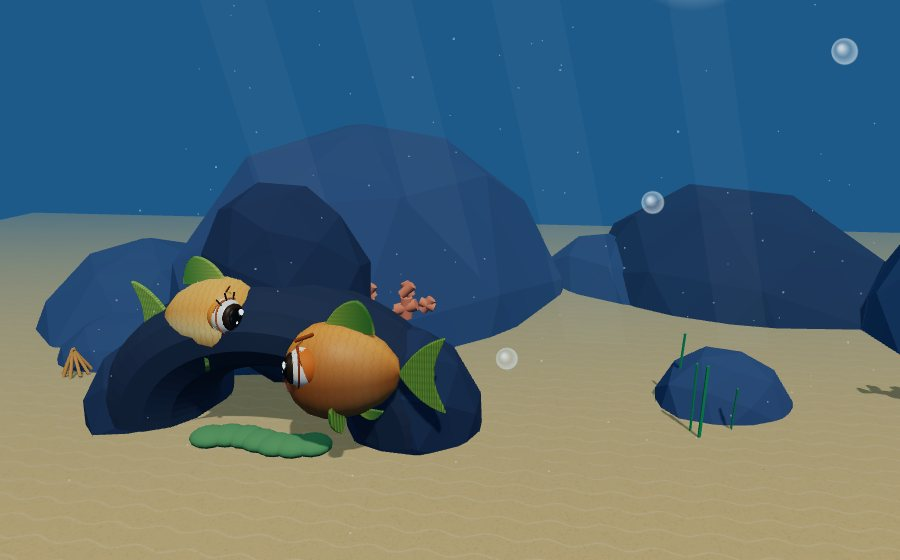
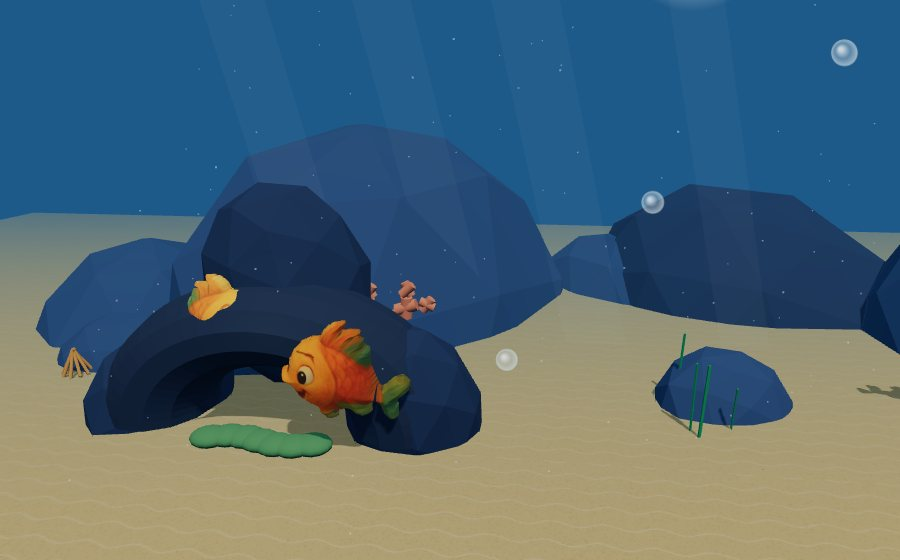
Fidibus 3D: Fidibus, Mama und Papa aus den Original-Buchbildern
Die Buch-Illustrationen (fid_*.png, Mama/Papa wie in Version 1 daraus
abgeleitet) werden zu 3D-Körpern aufgeblasen: Silhouette aus dem Alpha-
Kanal, Dicke nach Abstand zum Rand (Kugelprofil), Bild als Textur auf
beiden Seiten. Schwanz an der schmalsten Stelle als eigenes Gelenk,
Stimmungsposen (froh, redend, traurig, ängstlich, schlafend, frontal),
Blinzeln/Schlafen wie in Version 1 ins Bild gemalt. Rand-Pixel geglättet
und nach außen gehärtet, damit die Netzkante in opaker Textur liegt.
Umarmungspose neu ausgerichtet, Kartenbilder neu gerendert.

Claude-Session: https://claude.ai/code/session_01UJUZeWQvUyQxZdWTLgeUri

Changed region(s): [[0.3111, 0.5161, 0.4978, 0.8196], [0.1244, 0.4554, 0.28, 0.6375], [0.9333, 0.0607, 0.9644, 0.0911]]

diff --git a/fidibus3d/figures3d.js b/fidibus3d/figures3d.js
@@ -120,7 +120,7 @@ function eye(p, r, x, y, z, opts = {}) {
   return g;
 }
 const LID_CLOSED = Math.PI / 2 * 0.92;
-export function setLids(root, closed) { root.traverse(o => { if (o.userData && o.userData.lid) o.userData.lid.rotation.x = closed ? LID_CLOSED : o.userData.lidRest; }); }
+export function setLids(root, closed) { if (root.userData.bookLids) root.userData.bookLids(closed); root.traverse(o => { if (o.userData && o.userData.lid) o.userData.lid.rotation.x = closed ? LID_CLOSED : o.userData.lidRest; }); }
 export function blinkLids(root, k) { root.traverse(o => { if (o.userData && o.userData.lid) o.userData.lid.rotation.x = o.userData.lidRest * (1 - k) + LID_CLOSED * k; }); }
 function blushPair(g, x, y, z, r) { for (const sz of [-1, 1]) sph(g, r, 0xff8a7a, x, y, sz * z, 1, 0.7, 0.4, { alpha: 0.35 }); }
 function smileMesh(p, r, t, col, x, y, z, rot) { const m = new THREE.Mesh(new THREE.TorusGeometry(r, t, 8, 28, Math.PI), M(col, { rough: 0.6 })); m.position.set(x, y, z); m.rotation.set(...rot); p.add(m); return m; }
@@ -291,4 +291,144 @@ export function animTurtle(g, t, o) {
   const m = p.mouth.userData.m; const hs = o.talking ? 0.8 + 0.7 * Math.sin(t * 8) : 0.6;
   m.cav.scale.set(m.dep, m.hgt * hs, m.w); m.edge.scale.set(m.w * 1.05, m.hgt * hs * 1.1, 1); m.tongue.position.y = -m.hgt * hs * 0.45; m.lip.position.y = -m.hgt * hs * 0.95;
   if (hug > 0.5) setLids(g, true); else blinkLids(g, o.blink || 0);
+}
+
+// ───────────── Buch-Fische: Fidibus, Mama und Papa aus den Original-Illustrationen ─────────────
+// Die Buchbilder werden zu 3D-Körpern „aufgeblasen“: Die Silhouette bestimmt die Form, die Dicke folgt dem
+// Abstand zum Rand (Kugelprofil), die Illustration liegt als Textur auf beiden Seiten. Schwanz mit Gelenk,
+// Lider zum Blinzeln/Schlafen werden wie in Version 1 ins Bild gemalt.
+export const BOOK_EYES = {
+  fid_happy: [{ cx: 90, cy: 119, rx: 32, ry: 31, col: '#f08701' }], fid_talk: [{ cx: 186, cy: 68, rx: 16, ry: 17, col: '#de6f01' }],
+  fid_sad: [{ cx: 232, cy: 88, rx: 20, ry: 17, col: '#ed6904' }], fid_worried: [{ cx: 256, cy: 125, rx: 23, ry: 30, col: '#e77902' }, { cx: 324, cy: 133, rx: 20, ry: 24, col: '#c46104' }],
+  fid_front: [{ cx: 87, cy: 81, rx: 15, ry: 14, col: '#e57100' }, { cx: 44, cy: 82, rx: 14, ry: 15, col: '#e87300' }]
+};
+export const BOOK_SPR = { fid_happy: { face: -1, w: 150 }, fid_talk: { face: 1, w: 128 }, fid_sad: { face: 1, w: 142 }, fid_worried: { face: 1, w: 152 }, fid_sleep: { face: 1, w: 150 }, fid_front: { face: 1, w: 92 }, mama: { face: -1, w: 215 }, papa: { face: -1, w: 228 } };
+const BOOK_K = 0.0135;   // Sprite-Breite aus Version 1 (px) → Welteinheiten
+
+// Farben in transparente Pixel bluten lassen (gegen dunkle Säume beim Filtern)
+function bleed(img, passes, harden = 0) {
+  const w = img.width, h = img.height, d = img.data; let filled = new Uint8Array(w * h);
+  // nur satt opake Pixel behalten ihre Farbe; halbtransparente Randpixel tragen oft noch die Hintergrundfarbe des Buches
+  for (let i = 0; i < w * h; i++) { filled[i] = d[i * 4 + 3] > 190 ? 1 : 0; d[i * 4 + 3] = filled[i] ? 255 : 0; }
+  const orig = filled.slice();
+  for (let p = 0; p < passes; p++) {
+    const next = filled.slice();
+    for (let y = 0; y < h; y++) for (let x = 0; x < w; x++) {
+      const i = y * w + x; if (filled[i]) continue; let r = 0, g = 0, b = 0, n = 0;
+      for (let dy = -1; dy <= 1; dy++) for (let dx = -1; dx <= 1; dx++) { const xx = x + dx, yy = y + dy; if ((!dx && !dy) || xx < 0 || yy < 0 || xx >= w || yy >= h) continue; const j = yy * w + xx; if (filled[j]) { r += d[j * 4]; g += d[j * 4 + 1]; b += d[j * 4 + 2]; n++; } }
+      if (n) { d[i * 4] = r / n; d[i * 4 + 1] = g / n; d[i * 4 + 2] = b / n; d[i * 4 + 3] = p < harden ? 255 : 0; next[i] = 1; }
+    }
+    filled = next;
+  }
+  // geblutete Zone weichzeichnen (gegen Streifen an der Kante)
+  for (let p = 0; p < 3; p++) {
+    const src = new Uint8ClampedArray(d);
+    for (let y = 0; y < h; y++) for (let x = 0; x < w; x++) {
+      const i = y * w + x; if (orig[i] || !filled[i]) continue; let r = 0, g = 0, b = 0, n = 0;
+      for (let dy = -1; dy <= 1; dy++) for (let dx = -1; dx <= 1; dx++) { const xx = x + dx, yy = y + dy; if (xx < 0 || yy < 0 || xx >= w || yy >= h) continue; const j = yy * w + xx; if (filled[j]) { r += src[j * 4]; g += src[j * 4 + 1]; b += src[j * 4 + 2]; n++; } }
+      if (n) { d[i * 4] = r / n; d[i * 4 + 1] = g / n; d[i * 4 + 2] = b / n; }
+    }
+  }
+}
+function inflate(src, worldW, opts = {}) {
+  const iw = src.width, ih = src.height, step = Math.max(1, Math.round(Math.max(iw, ih) / 84));
+  const cols = Math.ceil(iw / step) + 3, rows = Math.ceil(ih / step) + 3;
+  // Quellbild mit geblutetem Rand
+  const base = document.createElement('canvas'); base.width = iw; base.height = ih; const bg = base.getContext('2d'); bg.drawImage(src, 0, 0);
+  // Alpha um gut eine Rasterweite nach außen härten: Die Netzkante liegt dann in opaker Textur (kein transparentes Band an der Kante)
+  const idata = bg.getImageData(0, 0, iw, ih); const A0 = new Uint8ClampedArray(idata.data); bleed(idata, step + 6, step + 2); bg.putImageData(idata, 0, 0);
+  const A = idata.data;
+  const alphaAt = (x, y) => { x = Math.round(x); y = Math.round(y); return (x < 0 || y < 0 || x >= iw || y >= ih) ? 0 : A[(y * iw + x) * 4 + 3]; };
+  const pad = step * 2 + 4, cw = iw + 2 * pad, ch = ih + 2 * pad;
+  const c = document.createElement('canvas'); c.width = cw; c.height = ch; const g = c.getContext('2d'); g.drawImage(base, pad, pad);
+  const PX = q => (q - 1) * step, PY = r => (r - 1) * step;
+  // innen = Original-Pixel in unmittelbarer Nähe des Knotens ist opak (Textur ist um step+2 px gehärtet, Randknoten liegen also in opaker Textur)
+  const ins = new Uint8Array(cols * rows);
+  for (let r = 0; r < rows; r++) for (let q = 0; q < cols; q++) { let on = 0; for (let dy = -1; dy <= 1 && !on; dy++) for (let dx = -1; dx <= 1; dx++) if (A0[(Math.min(ih - 1, Math.max(0, PY(r) + dy)) * iw + Math.min(iw - 1, Math.max(0, PX(q) + dx))) * 4 + 3] > 128) { on = 1; break; } ins[r * cols + q] = on; }
+  const used = new Uint8Array(cols * rows), nx = new Float32Array(cols * rows), ny = new Float32Array(cols * rows);
+  for (let r = 0; r < rows; r++) for (let q = 0; q < cols; q++) { const i = r * cols + q; nx[i] = PX(q); ny[i] = PY(r); let u = ins[i]; for (let dr = -1; dr <= 1 && !u; dr++) for (let dq = -1; dq <= 1; dq++) { const rr = r + dr, qq = q + dq; if (rr >= 0 && qq >= 0 && rr < rows && qq < cols && ins[rr * cols + qq]) { u = 1; break; } } used[i] = u; }
+  // Abstand zum Rand (Chamfer, zwei Durchläufe)
+  const D = new Float32Array(cols * rows); const INF = 1e6;
+  for (let i = 0; i < D.length; i++) D[i] = ins[i] ? INF : 0;
+  const at = (r, q) => (r < 0 || q < 0 || r >= rows || q >= cols) ? 0 : D[r * cols + q];
+  for (let r = 0; r < rows; r++) for (let q = 0; q < cols; q++) { const i = r * cols + q; if (!ins[i]) continue; D[i] = Math.min(D[i], at(r - 1, q) + 1, at(r, q - 1) + 1, at(r - 1, q - 1) + 1.414, at(r - 1, q + 1) + 1.414); }
+  for (let r = rows - 1; r >= 0; r--) for (let q = cols - 1; q >= 0; q--) { const i = r * cols + q; if (!ins[i]) continue; D[i] = Math.min(D[i], at(r + 1, q) + 1, at(r, q + 1) + 1, at(r + 1, q + 1) + 1.414, at(r + 1, q - 1) + 1.414); }
+  let dmax = 0; for (let i = 0; i < D.length; i++) if (D[i] < INF) dmax = Math.max(dmax, D[i]);
+  const cap = dmax * (opts.cap ?? 0.92), k = worldW / iw, Tz = cap * step * k * (opts.fat ?? 0.85);
+  // Kugelprofil, aber der erste Knoten innen springt nur halb so hoch: dünne Flossen bleiben flach, die Kante wird weicher
+  const zOf = d => { const n = Math.max(0, Math.min(d, cap) - 0.6) / cap; return Tz * Math.sqrt(Math.max(0, 1 - (1 - n) * (1 - n))); };
+  // Schwanzansatz: schmalste Stelle zwischen dem breitesten Körperteil und der Schwanzflosse
+  let split = -1;
+  if (opts.face) {
+    const ext = []; let qMax = 0; for (let q = 0; q < cols; q++) { let n = 0; for (let r = 0; r < rows; r++) n += ins[r * cols + q]; ext.push(n); if (n > ext[qMax]) qMax = q; }
+    const dir = opts.face < 0 ? 1 : -1; let last = -1;
+    for (let q = qMax; q >= 0 && q < cols; q += dir) if (ext[q] >= ext[qMax] * 0.28) last = q;
+    let best = 1e9; for (let q = qMax + dir * 3; q !== last && q >= 0 && q < cols; q += dir) if (ext[q] < best) { best = ext[q]; split = q; }
+    if (split > 0 && best > ext[qMax] * 0.6) split = -1;
+  }
+  const tex = new THREE.CanvasTexture(c); tex.colorSpace = THREE.SRGBColorSpace; tex.anisotropy = 4;
+  const mat = new THREE.MeshStandardMaterial({ map: tex, alphaTest: 0.5, roughness: 0.9, metalness: 0, side: THREE.FrontSide, emissive: 0xffffff, emissiveMap: tex, emissiveIntensity: 0.32 });
+  const wx = i => (nx[i] - iw / 2) * k, wy = i => (ih / 2 - ny[i]) * k;
+  function build(qFrom, qTo, x0) {
+    const pos = [], uv = [], idx = []; const id = new Int32Array(cols * rows).fill(-1); let n = 0;
+    for (const side of [1, -1]) {
+      for (let r = 0; r < rows; r++) for (let q = qFrom; q <= qTo; q++) { const i = r * cols + q; if (!used[i]) continue; if (side > 0) id[i] = n; pos.push(wx(i) - x0, wy(i), side * zOf(D[i] < INF ? D[i] : 0)); uv.push((nx[i] + pad) / cw, 1 - (ny[i] + pad) / ch); n++; }
+      const off = side > 0 ? 0 : n / 2 | 0;
+      for (let r = 0; r < rows - 1; r++) for (let q = qFrom; q < qTo; q++) {
+        const a = id[r * cols + q], b = id[r * cols + q + 1], cc = id[(r + 1) * cols + q], d = id[(r + 1) * cols + q + 1]; if (a < 0 || b < 0 || cc < 0 || d < 0) continue;
+        const o = side > 0 ? 0 : off; if (side > 0) idx.push(a, cc, b, b, cc, d); else idx.push(a + o, b + o, cc + o, b + o, d + o, cc + o);
+      }
+    }
+    const geo = new THREE.BufferGeometry(); geo.setAttribute('position', new THREE.Float32BufferAttribute(pos, 3)); geo.setAttribute('uv', new THREE.Float32BufferAttribute(uv, 2)); geo.setIndex(idx); geo.computeVertexNormals();
+    const m = new THREE.Mesh(geo, mat); m.castShadow = true; m.receiveShadow = false; return m;
+  }
+  const group = new THREE.Group(); let tail = null;
+  if (split > 0) {
+    const xs = (PX(split) - iw / 2) * k;
+    const bodyRange = opts.face < 0 ? [0, split] : [split, cols - 1], tailRange = opts.face < 0 ? [split, cols - 1] : [0, split];
+    group.add(build(bodyRange[0], bodyRange[1], 0));
+    tail = new THREE.Group(); tail.position.x = xs; tail.add(build(tailRange[0], tailRange[1], xs)); group.add(tail);
+  } else group.add(build(0, cols - 1, 0));
+  // Lider ins Bild malen (wie Version 1)
+  let lidState = -1;
+  const redraw = on => {
+    if (on === lidState) return; lidState = on;
+    g.clearRect(0, 0, cw, ch); g.drawImage(base, pad, pad);
+    if (on && opts.eyes) for (const e of opts.eyes) {
+      const ex = e.cx + pad, ey = e.cy + pad;
+      g.fillStyle = e.col; g.beginPath(); g.ellipse(ex, ey, e.rx, e.ry, 0, 0, 7); g.fill();
+      g.strokeStyle = 'rgba(50,25,10,.5)'; g.lineWidth = Math.max(1.2, e.rx * 0.12); g.lineCap = 'round';
+      g.beginPath(); g.ellipse(ex, ey + e.ry * 0.1, e.rx * 0.8, e.ry * 0.45, 0, 0.2, Math.PI - 0.2); g.stroke();
+    }
+    tex.needsUpdate = true;
+  };
+  redraw(0);
+  return { group, tail, redraw };
+}
+
+// poses: { key: { src, face, w, eyes } } – alle Posen blicken nach der Drehung nach -X
+export function makeBookFish(kind, poses) {
+  const g = new THREE.Group(); const P = {};
+  for (const key in poses) {
+    const p = poses[key]; const inf = inflate(p.src, p.w * BOOK_K, { face: key === 'fid_front' ? 0 : p.face, eyes: p.eyes, fat: key === 'fid_front' ? 0.6 : 0.85 });
+    inf.group.rotation.y = p.face < 0 ? 0 : Math.PI; inf.group.visible = false; g.add(inf.group); P[key] = inf;
+  }
+  g.userData.book = { poses: P, kind, current: null };
+  g.userData.bookLids = closed => { const cur = g.userData.book.current; if (cur) P[cur].redraw(closed ? 1 : 0); };
+  return g;
+}
+export function animBookFish(g, t, o) {
+  const B = g.userData.book; let key = B.kind;
+  if (B.kind === 'fid') {
+    key = o.mood === 'sleep' ? 'fid_sleep' : o.mood === 'sad' ? 'fid_sad' : o.mood === 'worried' ? 'fid_worried' : o.mood === 'front' ? 'fid_front' : 'fid_happy';
+    if (o.talking && (o.mood === 'happy' || o.mood === 'front') && Math.floor(t * 7) % 2 === 0 && B.poses.fid_talk) key = 'fid_talk';
+  }
+  if (!B.poses[key]) key = Object.keys(B.poses)[0];
+  for (const k in B.poses) B.poses[k].group.visible = k === key;
+  B.current = key; const pose = B.poses[key];
+  pose.redraw(o.mood === 'sleep' || (o.blink || 0) > 0 ? 1 : 0);
+  const sp = o.speed || 0, wag = Math.sin(t * (6 + sp * 1.5)) * (o.moving ? 0.45 : 0.16);
+  if (pose.tail) pose.tail.rotation.y = wag * (pose.group.rotation.y ? -1 : 1);
+  pose.group.rotation.z = (o.talking ? Math.sin(t * 13) * 0.025 : 0);
+  pose.group.scale.set(1 + Math.sin(t * 1.8) * 0.015, 1 - Math.sin(t * 1.8) * 0.015, 1);
 }

diff --git a/fidibus3d/game.js b/fidibus3d/game.js
@@ -1,7 +1,7 @@
 // Fidibus und der Weg nach Hause – Version 2 in 3D (three.js).
 // Spiellogik, Geschichte und Steuerung wie in Version 1 (Welt in 2D-Einheiten), Darstellung in 3D.
 import * as THREE from './three.module.min.js';
-import { makeFish, animFish, makeWhale, animWhale, makeStar, makeJelly, animJelly, makeTurtle, animTurtle, setLids, M } from './figures3d.js';
+import { makeBookFish, animBookFish, BOOK_EYES, BOOK_SPR, makeWhale, animWhale, makeStar, makeJelly, animJelly, makeTurtle, animTurtle, setLids, M } from './figures3d.js';
 
 const WORLD_W = 11200, WORLD_H = 1400;
 const HOME = { x: 330, y: 1080 };
@@ -467,7 +467,12 @@ const pool = { b: [], h: [] };
 function spriteFrom(kind) { const arr = pool[kind]; const s = arr.find(x => !x.visible); if (s) return s; const n = new THREE.Sprite(kind === 'b' ? bubbleMat.clone() : heartMat.clone()); scene.add(n); arr.push(n); return n; }
 
 // ───────────── Figuren ─────────────
-const fidM = makeFish('fid'), mamaM = makeFish('mama'), papaM = makeFish('papa');
+// Buchbilder laden (aus Version 1) und Mama/Papa daraus ableiten
+const IMG = {};
+await Promise.all(['fid_happy', 'fid_talk', 'fid_sad', 'fid_worried', 'fid_sleep', 'fid_front'].map(k => new Promise(res => { const im = new Image(); im.onload = res; im.onerror = res; im.src = '../fidibus/img/' + k + '.png'; IMG[k] = im; })));
+const fidPoses = {}; for (const k in IMG) if (IMG[k].width) fidPoses[k] = { src: IMG[k], face: BOOK_SPR[k].face, w: BOOK_SPR[k].w, eyes: BOOK_EYES[k] };
+const parentPose = kind => { const p = window.FIG.parent(IMG.fid_happy, kind); return { [kind]: { src: p.c, face: p.face, w: BOOK_SPR[kind].w, eyes: p.eyes } }; };
+const fidM = makeBookFish('fid', fidPoses), mamaM = makeBookFish('mama', parentPose('mama')), papaM = makeBookFish('papa', parentPose('papa'));
 const whaleM = makeWhale(), starM = makeStar(), jellyM = makeJelly(), turtleM = makeTurtle();
 scene.add(fidM, mamaM, papaM, whaleM, starM, jellyM, turtleM);
 whaleM.position.set(X(2520) + 6.6, Y(720), 0.4);
@@ -482,10 +487,10 @@ function syncFish(m, f, kind, off) {
   m.visible = !f.hidden;
   m.position.set(X(f.x), Y(f.y) + Math.sin(f.fin * 0.9) * 0.03, kind === 'mama' ? -0.6 : kind === 'papa' ? 0.3 : 0);
   const front = f.mood === 'front';
-  const yaw = front ? Math.PI / 2 : (f.dir > 0 ? Math.PI : 0);
+  const yaw = front ? 0 : (f.dir > 0 ? Math.PI : 0);
   m.rotation.set(0, yaw, (f.dir > 0 ? 1 : -1) * -f.tilt * 0.8 * (front ? 0 : 1));
   const line = G.mode === 'dialog' ? G.dialogQueue[G.dialogIdx] : null; const typing = !!(line && G.typed < line.text.length);
-  animFish(m, G.t + off, { moving: Math.hypot(f.vx, f.vy) > 30, speed: Math.hypot(f.vx, f.vy) / 100, mood: f.mood, talking: f.talking && typing, blink: blink(kind === 'fid' ? 4.1 : 5.3, off) });
+  animBookFish(m, G.t + off, { moving: Math.hypot(f.vx, f.vy) > 30, speed: Math.hypot(f.vx, f.vy) / 100, mood: f.mood, talking: f.talking && typing, blink: blink(kind === 'fid' ? 4.1 : 5.3, off) });
 }
 function render3d(dt) {
   const t = G.t;
@@ -493,7 +498,7 @@ function render3d(dt) {
   syncFish(fidM, G.fid, 'fid', 0.4); syncFish(mamaM, G.mama, 'mama', 1.9); syncFish(papaM, G.papa, 'papa', 3.1);
   // Umarmung: Fidibus schmiegt sich an den Kopf der Schildkröte
   const hug = G.turtle.hug;
-  if (hug > 0.5) { fidM.visible = true; fidM.position.set(turtleM.position.x - 5.2, turtleM.position.y + 0.1, 0.9); fidM.rotation.set(0, Math.PI * 0.75, 0.45); setLids(fidM, true); }
+  if (hug > 0.5) { fidM.visible = true; fidM.position.set(turtleM.position.x - 5.0, turtleM.position.y + 0.35, 1.4); fidM.rotation.set(0, 0.35, 0.4); setLids(fidM, true); }
   const line = G.mode === 'dialog' ? G.dialogQueue[G.dialogIdx] : null; const typing = !!(line && G.typed < line.text.length);
   const speaks = who => typing && line.who === who;
   animTurtle(turtleM, t, { hug, blink: blink(5.6, 3.3), talking: speaks('Oma-Schildkröte') || speaks('Schildkröte') });
@@ -546,4 +551,4 @@ const _startStory = startStory;
 document.getElementById('loading').style.display = 'none';
 requestAnimationFrame(frame);
 
-window.FB = { G, POS, HOME, STORY, scene, camera, renderer, nextStep, startStory, jumpToStep(i) { G.step = i - 1; nextStep(); }, tp(x, y) { const f = G[G.ctrl || 'fid']; f.x = x; f.y = y; G.cam.x = x; G.cam.y = y; }, advanceDialog, tick(sec) { const n = Math.round(sec * 60); for (let i = 0; i < n; i++) update(1 / 60); }, setTarget(x, y) { G.target = { x, y }; }, draw: () => render3d(0), rebuildCollect, setZoom(v) { zoom = v; G.zoomOverride = v; } };
+window.FB = { THREE, G, POS, HOME, STORY, scene, camera, renderer, nextStep, startStory, jumpToStep(i) { G.step = i - 1; nextStep(); }, tp(x, y) { const f = G[G.ctrl || 'fid']; f.x = x; f.y = y; G.cam.x = x; G.cam.y = y; }, advanceDialog, tick(sec) { const n = Math.round(sec * 60); for (let i = 0; i < n; i++) update(1 / 60); }, setTarget(x, y) { G.target = { x, y }; }, draw: () => render3d(0), rebuildCollect, setZoom(v) { zoom = v; G.zoomOverride = v; } };

diff --git a/fidibus3d/index.html b/fidibus3d/index.html
@@ -115,6 +115,7 @@ html,body{margin:0;padding:0;height:100%;overflow:hidden;background:#0b2a4a;font
 </div>
 
 <div id="loading">Fidibus schwimmt heran …</div>
+<script src="../fidibus/figures.js"></script>
 <script type="module" src="game.js"></script>
 </body>
 </html>

diff --git a/fidibus/figures.js b/fidibus/figures.js
@@ -379,6 +379,7 @@ function parent(img, kind) {
 }
 
 window.FIG = {
+  parent,
   build(IMG) {
     const out = {};
     out.whale = whale(); out.turtle = turtle(); out.hug = turtle({ hug: true }); out.star = star(); out.jelly = jelly();
